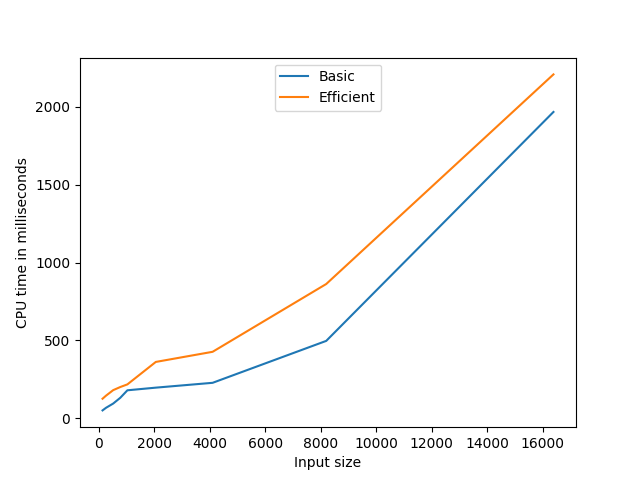
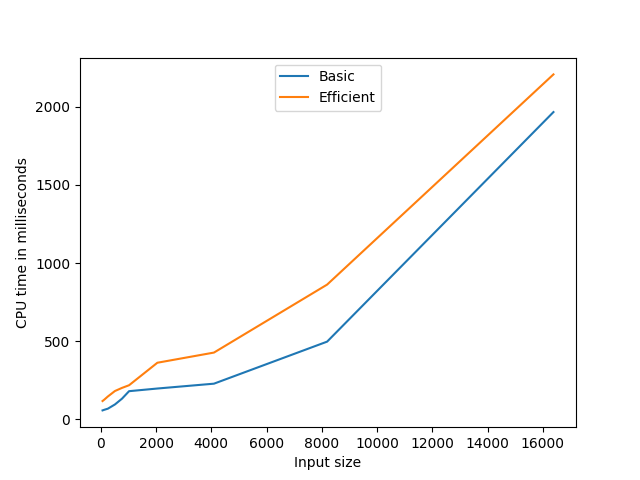
Filename changes, plots

diff --git a/4975690927_9237518791_7962774044_plotter.py b/4975690927_9237518791_7962774044_plotter.py
@@ -1,13 +1,13 @@
 import matplotlib.pyplot as plt
 import numpy as np
 
-input_size = np.array([128, 256, 512, 768, 1024, 2048, 4096, 8192, 16384])
+input_size = np.array([64, 128, 256, 512, 768, 1024, 2048, 4096, 8192, 16384])
 
-cpu_time1 = np.array([51, 68, 95, 132, 180, 197, 228, 497, 1966])
-memory1 =  np.array([1048, 1551, 4194, 7340, 14134, 17013, 59579, 115562, 963073])
+cpu_time1 = np.array([57, 61, 68, 95, 132, 180, 197, 228, 497, 1966])
+memory1 =  np.array([503, 1048, 1551, 4194, 7340, 14134, 17013, 59579, 115562, 963073])
 
-cpu_time2 = np.array([126, 146, 181, 201, 218, 362, 427, 862, 2207])
-memory2 = np.array([2097, 3649, 8388, 14680, 23068, 45874, 37739, 27961, 31835])
+cpu_time2 = np.array([117, 126, 146, 181, 201, 218, 362, 427, 862, 2207])
+memory2 = np.array([1554, 2097, 3649, 8388, 14680, 23068, 45874, 37739, 27961, 31835])
 
 def plot_cpu_time():
     plt.plot(input_size, cpu_time1, label='Basic')

diff --git a/Basic_4975690927_9237518791_7962774044.java b/Basic_4975690927_9237518791_7962774044.java
@@ -111,7 +111,7 @@ public class Basic_4975690927_9237518791_7962774044 {
             String inputFileName = args[0];
             File file = new File(inputFileName);
             try {
-                strings = StringGenerator.generateStringsFromFile(file);
+                strings = StringGenerator_4975690927_9237518791_7962774044.generateStringsFromFile(file);
             } catch (Exception e) {
                 e.printStackTrace();
             }

diff --git a/Efficient_4975690927_9237518791_7962774044.java b/Efficient_4975690927_9237518791_7962774044.java
@@ -125,7 +125,7 @@ public class Efficient_4975690927_9237518791_7962774044 {
             String inputFileName = args[0];
             File file = new File(inputFileName);
             try {
-                strings = StringGenerator.generateStringsFromFile(file);
+                strings = StringGenerator_4975690927_9237518791_7962774044.generateStringsFromFile(file);
 
                 long startTime = System.currentTimeMillis();
 

diff --git a/StringGenerator_4975690927_9237518791_7962774044.java b/StringGenerator_4975690927_9237518791_7962774044.java
@@ -4,7 +4,7 @@ import java.io.FileReader;
 import java.util.ArrayList;
 import java.util.List;
 
-public class StringGenerator {
+public class StringGenerator_4975690927_9237518791_7962774044 {
 
     public static String generateString(String baseString, List<Integer> indices) {
         StringBuilder string = new StringBuilder(baseString);
